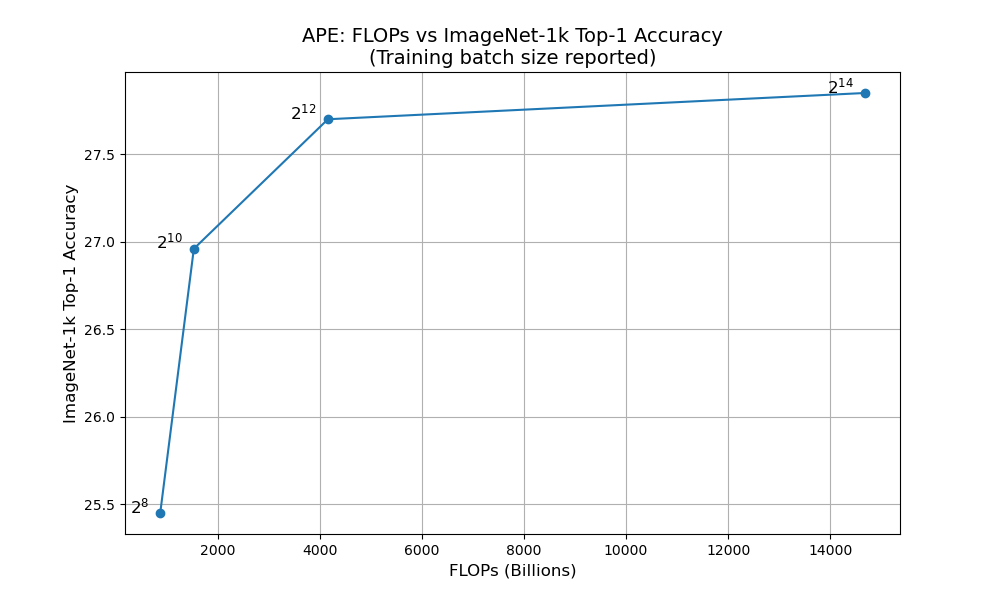
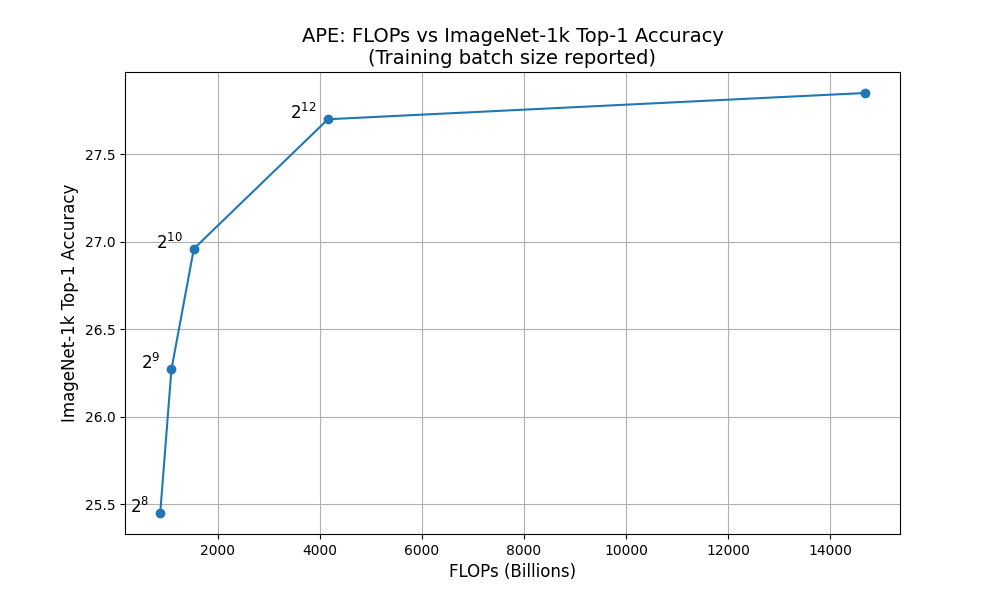
512 in ape-bs, run hnet-bs

diff --git a/hyperalignment/plots/ape_bs.py b/hyperalignment/plots/ape_bs.py
@@ -2,7 +2,7 @@ from pylab import plt
 
 def one_tick(i):
     return r"$2^{" + str(i) + r"}$"
-lbl = [one_tick(i) for i in range(8, 15, 2)]
+lbl = [one_tick(i) for i in [8, 9, 10, 12, 14]]
 """
 
 ape_vits = {'vits_bs-256_lr-0.001': 25.45, 'vits_bs-1024_lr-0.003': 26.96, 'vits_bs-4096_lr-0.005': 27.7, 'vits_bs-16384_lr-0.01': 27.85}
@@ -16,8 +16,9 @@ plt.title("APE: Batch size vs ImageNet-1k Top-1 Accuracy for ViT-S/16")
 """
 
 # Data
-flops = [877.7, 1536.1, 4161.8, 14675.9]  # FLOPs in billions
-accuracies = [25.45, 26.96, 27.70, 27.85]  # ImageNet-1k top-1 accuracy
+flops = [877.7, 1097.2, 1536.1, 4161.8, 14675.9]  # FLOPs in billions
+accuracies = [25.45, 26.27, 26.96, 27.70, 27.85]  # ImageNet-1k top-1 accuracy
+# 'vits_bs-512_lr-0.001': 26.27
 labels = [
     "bs 256, lr 1e-3",
     "bs 1024, lr 3e-3",
@@ -38,4 +39,5 @@ for i, label in enumerate(labels):
 
 # Show the plot
 plt.grid(True)
+# plt.show()
 plt.savefig("ape_vits_bs.png")

diff --git a/hyperalignment/src/multi_ape.py b/hyperalignment/src/multi_ape.py
@@ -1,0 +1,15 @@
+import os
+import torch
+import numpy as np
+from torch.utils.data import DataLoader
+
+from data.embedding_datasets import SeparateEmbeddings
+from models.param_decoders import MLP
+from configs.data_configs import data_configs
+from configs.model_configs import model_configs
+
+
+def main(args):
+    encoder_names = model_configs.ID_experiment_configs["multi_mapper"][args.image_embed_dim]["image_encoders"][:args.num_image_encoders]
+
+

diff --git a/hyperalignment/experiment_notes/ape_bs_verfiy.md b/hyperalignment/experiment_notes/ape_bs_verfiy.md
@@ -8,17 +8,22 @@
 - FLOPs for 1 epoch = 877.7 Billion
 - ImageNet-1k top-1 accuracy = 25.45
 
-## 2. `bs=1024` & `lr=3e-3`
+## 2. `bs=512` & `lr=1e-3` 
+
+- FLOPs for 1 epoch = 1097.2 B
+- ImageNet-1k top-1 accuracy = 26.27
+
+## 3. `bs=1024` & `lr=3e-3`
 
 - FLOPs for 1 epoch = 1536.1 Billion
 - ImageNet-1k top-1 accuracy = 26.96
 
-## 3. `bs=4096` & `le=5e-3`
+## 4. `bs=4096` & `le=5e-3`
 
 - FLOPs for 1 epoch = 4161.8 Billion
 - ImageNet-1k top-1 accuracy = 27.70
 
-## 4. `bs=16384` & `lr=1e-2`
+## 5. `bs=16384` & `lr=1e-2`
 
 - FLOPs for 1 epoch = 14675.9 Billion
 - ImageNet-1k top-1 accuracy = 27.85
